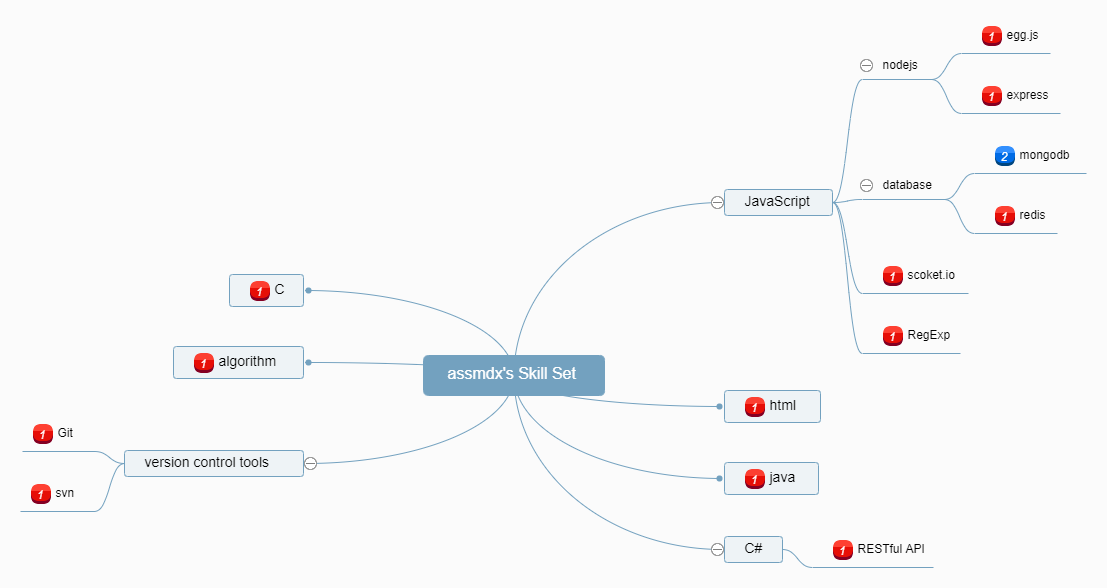
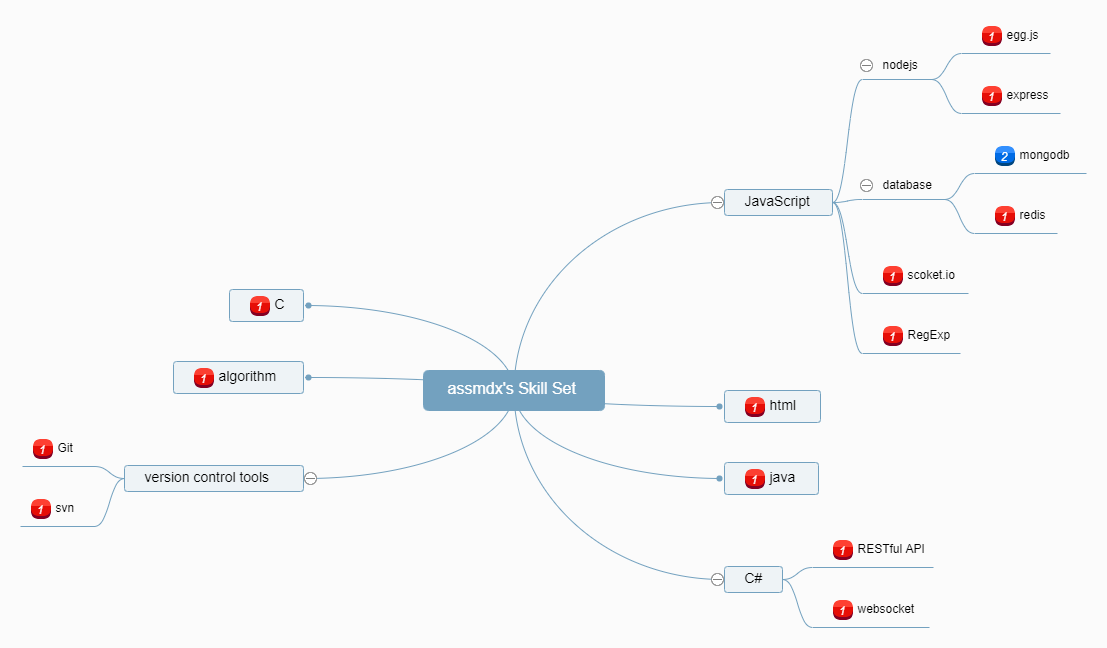
。

diff --git a/README.md b/README.md
@@ -35,14 +35,15 @@ SkillSet uses [Baidu FEX team](http://fex.baidu.com/)'s [Kity](https://github.co
       "database":{
         "mongodb":2,
         "redis":1
-      },
+      },      
       "scoket.io":1,
       "RegExp":1
     },
     "html":1,
     "java":1,
     "C#":{
-      "RESTful API":1
+      "RESTful API":1,
+      "websocket":1
     },
     "C":1,
     "algorithm":1,
